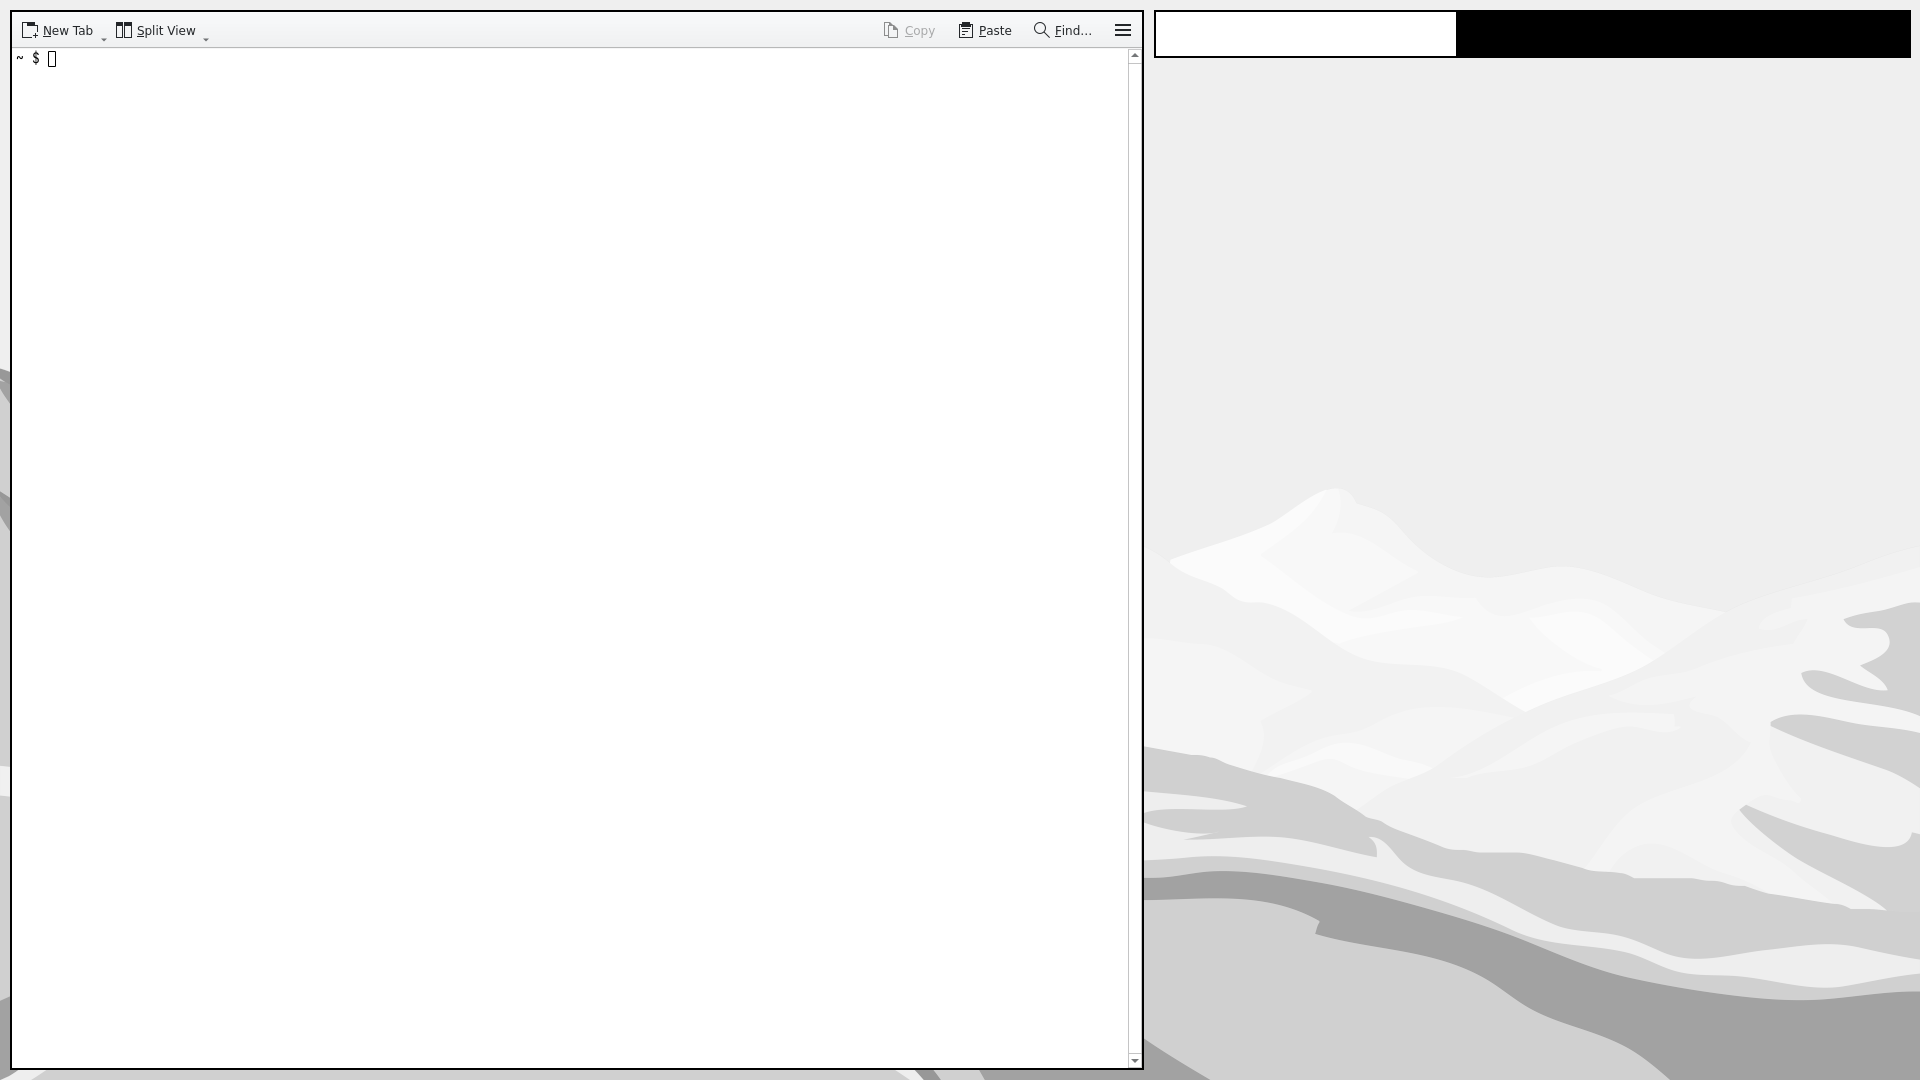
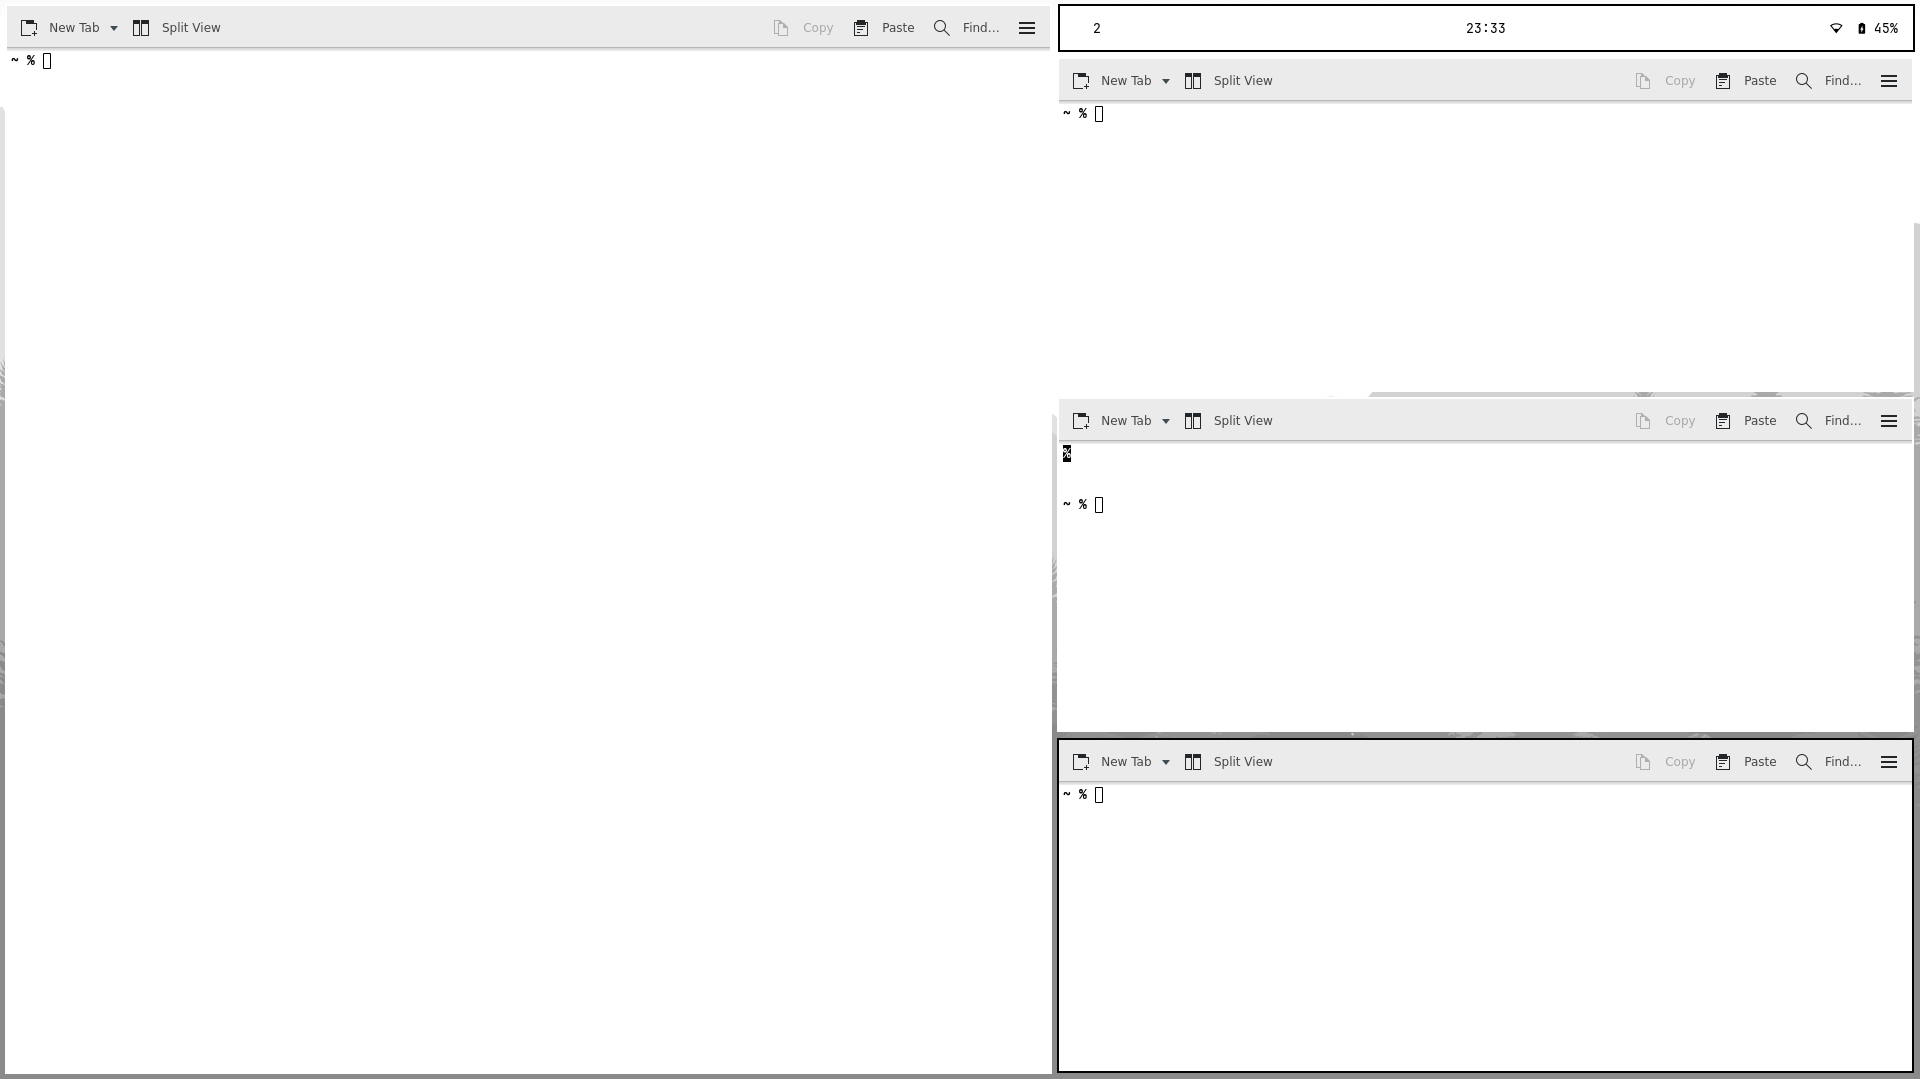
Updated readme for new layouts

diff --git a/README.md b/README.md
@@ -36,6 +36,33 @@ existing apk world file, **DO NOT REPLACE THE FILE OR YOU MAY BREAK YOUR
 INSTALL**.  The file in this repository does not contain a Linux kernel, network
 divers, etcetera.
 
+
+## Usage
+
+Riverbed is configured through the use of a few configuration files as well as
+the `riverbedctl` command. The configuration files are located at `config/river`
+and are named `variables`, `keybinds`, `autostart` and `custom`. The purpose of
+each should be clear by the name. Important to note is that `keybinds` and
+`custom` are both scripts allowing for greater flexibility.
+
+`riverbedctl` is the command line utility used for updating aspects of the
+desktop such as the current layout, gaps, border-colors, etcetera. Unlike
+`riverctl`, riverbedctl will inform the various parts of the desktop
+synchronously. Therefore, changing the layout will for instance change the size
+and position of the system bar.
+
+These are the various functions of riverbedctl:
+
+- Setting any variable from `config/river/variables` by calling `riverbedctl
+  variable=value`. These settings must be saved manually to the configuration
+  file and will otherwise me lost upon reset.
+- Calling any function from `config/river/init` notably
+	+ `customs` will reload the `config/river/customs` file
+	+ `reload_keybinds` will reload the `config/river/keybinds` file
+- riverbedctl will always re-synchronize the configurations for wob, waybar,
+  fnott, tofi, and luatile
+
+
 ### Programs
 
 Riverbed uses the following programs:
@@ -47,17 +74,12 @@ Riverbed uses the following programs:
 | way bar | Status bar |
 | tofi | Launcher, Polkit-agent * pinentry |
 | fnott | Notifications |
-| brightnessctl | Brightness management |
-| grimshot | Screenshots |
-| doas | CLI privilege escalation |
-| pass | Password and OTP manager |
+
+Riverbed does rely on other programs and libraries to be present on your system,
+please check `etc/apk/world` for a full list.
 
 I personally use the KDE suite of applications, but this can easily be
 substituted by with GNOME or DE agnostic applications.
-
-If you do use the kde applications, consider adding `qt6ct` and configuring it
-to use the `xdg-desktop-portal`. Alternatively, you can change the
-`QT_QPA_PLATFORMTHEME` to `xdgdesktopportal` in `home/profile`.
 
 ## Alpine-specific
 
@@ -89,38 +111,35 @@ group
 
 ## Window layout
 
-Riverbed uses a custom layout I call runoff. It is a simple master-stack layout
-which always reserves space for the stack, even if there is only one window in
-screen. It also reserves space for the bar which only takes up around 40% of the
-screen width.
+Riverbed supports three different window layouts, each with various settings.
 
-Settings regarding the layout can be changed by editing the `river-luatile`
-configuration, though one must then also change the configuration files for
-`tofi` and `waybar` to match.
+`Runoff` is a simple master-stack layout which always reserves space for the
+stack, even if there is only one window in screen. It also reserves space for
+the bar which only takes up around 40% of the screen width.  The size of the
+master and stack can be controlled with the `main_ratio` variable.
+
+`Dual` is a variation on the mater stack layout which will make the main window
+take up the center and align one stack on either side.
+
+`Grid` will sort windows into a more-or-less equal grid of windows. This layout
+ignores the `main_ratio` window and does is the only one where the bar takes up
+the full screen width. The grid is controlled by two variables: `columns` is a
+hard-coded limit to the number to horizontal stacks riverbed will sort windows
+into. While `dynamic_columns` can be set to dynamically create more columns as
+the number of windows increase.
 
 ## Screenshots
 
-### No windows
-![empty](pictures/empty.png)
-
-### Full screen
-![full](pictures/full.png)
-
-### The stack space is always available
+### Runoff
 ![runoff](pictures/runoff.png)
 
-### The Bar, taking up 40% of the screen
-![bar](pictures/bar.png)
+### Dual
+![dual](pictures/dual.png)
+
+### Grid
+![grid](pictures/grid.png)
 
 ### Launcher, OSD and Notification use the same space and styling as the bar
 ![launcher](pictures/launcher.png)
 ![osd](pictures/osd.png)
 ![notification](pictures/notification.png)
-
-
-## Hacks
-
-The current `waybar` configuration is a bit of a hack, using a transparent bar
-with a wide left-side margin to get a partial bar. I am working on a patch for
-way bar that allows one to set a smaller bar anchored to a corner to alleviate
-this problem.
